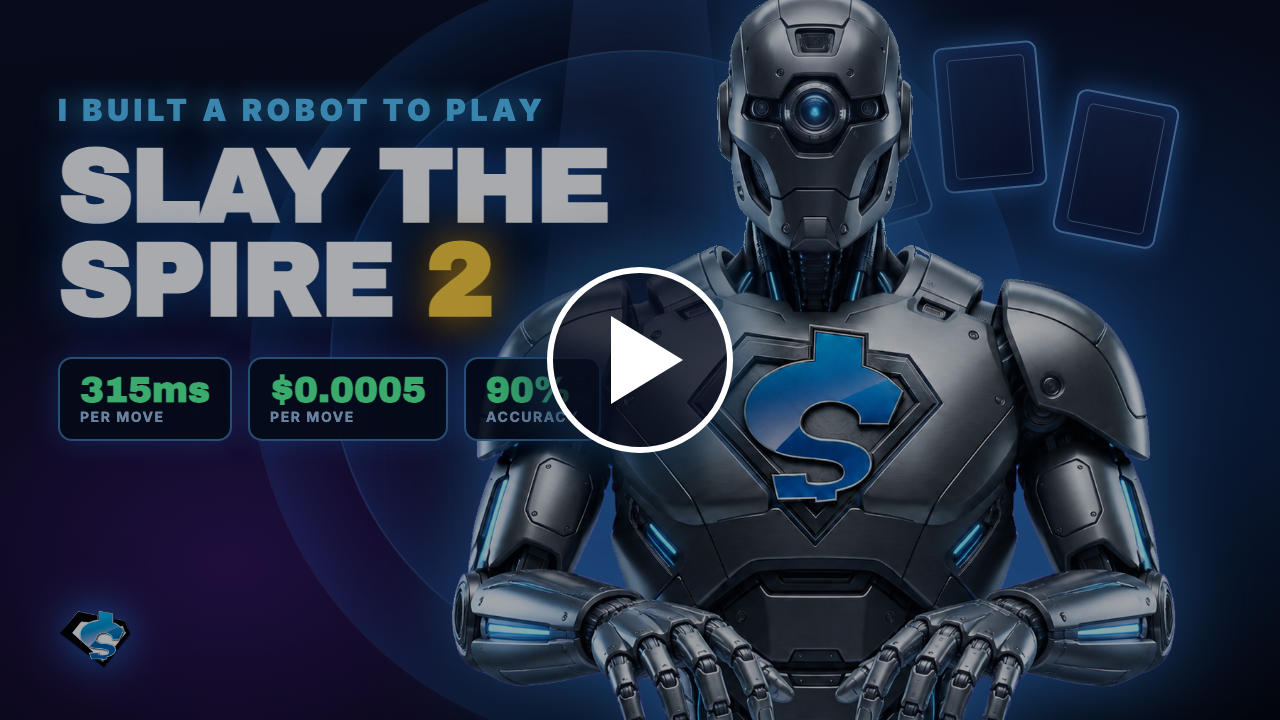
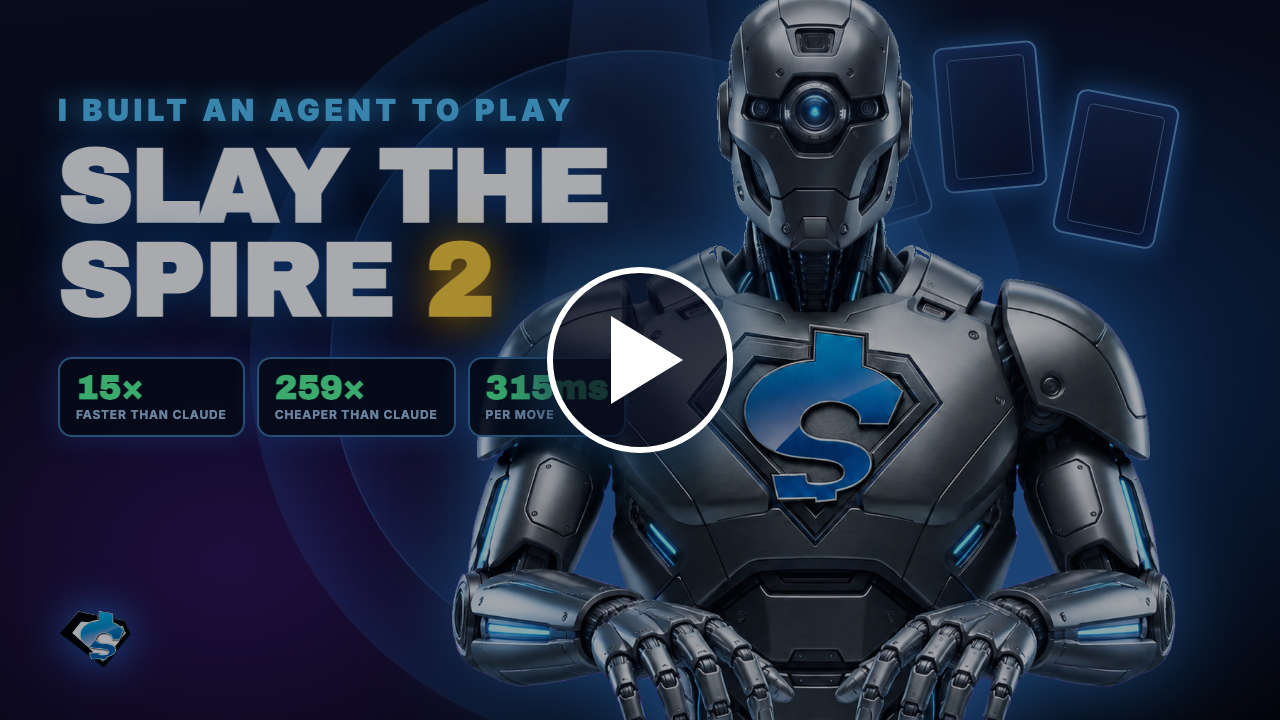
🎨 thumbnail: agent not robot, and lead with the verified Claude deltas

Changed region(s): [[0.0312, 0.4889, 0.4688, 0.6111], [0.1562, 0.1222, 0.4688, 0.1833]]

diff --git a/media/thumb.html b/media/thumb.html
@@ -32,18 +32,18 @@
     border:1px solid rgba(150,210,255,.45)}
   .robot{position:absolute;right:-30px;bottom:-56px;height:800px;
     filter:drop-shadow(0 0 46px rgba(60,150,255,.75)) drop-shadow(0 26px 40px rgba(0,0,0,.85))}
-  .copy{position:absolute;left:58px;top:92px;width:690px;z-index:5}
+  .copy{position:absolute;left:58px;top:92px;width:720px;z-index:5}
   .kicker{font-family:Inter,sans-serif;font-weight:900;font-size:30px;letter-spacing:.16em;
     color:#57c8ff;text-transform:uppercase;text-shadow:0 0 22px rgba(60,180,255,.85);margin-bottom:12px}
   h1{font-family:'Archivo Black',Inter,sans-serif;font-size:104px;line-height:.9;color:#fff;
     text-transform:uppercase;letter-spacing:-.022em;
     text-shadow:0 0 42px rgba(40,130,255,.62),0 8px 24px rgba(0,0,0,.92)}
   h1 .hl{color:#ffd23f;text-shadow:0 0 42px rgba(255,190,50,.85),0 8px 24px rgba(0,0,0,.9)}
-  .stats{display:flex;gap:16px;margin-top:30px}
+  .stats{display:flex;gap:12px;margin-top:30px}
   .stat{background:rgba(6,12,28,.90);border:2px solid rgba(90,180,255,.62);border-radius:14px;
-    padding:13px 20px;box-shadow:0 0 28px rgba(40,130,255,.32)}
-  .stat b{display:block;font-family:'Archivo Black',sans-serif;font-size:36px;color:#57ff9e;line-height:1}
-  .stat span{font-family:Inter,sans-serif;font-weight:700;font-size:14px;letter-spacing:.11em;
+    padding:12px 16px;box-shadow:0 0 28px rgba(40,130,255,.32)}
+  .stat b{display:block;font-family:'Archivo Black',sans-serif;font-size:34px;color:#57ff9e;line-height:1}
+  .stat span{font-family:Inter,sans-serif;font-weight:700;font-size:12px;letter-spacing:.07em;
     color:#9fc2e8;text-transform:uppercase}
   .logo{position:absolute;left:58px;bottom:44px;height:74px;
     filter:drop-shadow(0 0 22px rgba(40,140,255,.85));z-index:6}
@@ -66,12 +66,12 @@
   <div class="card" style="left:742px;top:238px;transform:rotate(-26deg);opacity:.75"></div>
   <img class="robot" src="robot.png" alt="">
   <div class="copy">
-    <div class="kicker">I built a robot to play</div>
+    <div class="kicker">I built an agent to play</div>
     <h1>SLAY THE<br>SPIRE <span class="hl">2</span></h1>
     <div class="stats">
+      <div class="stat"><b>15&times;</b><span>faster than Claude</span></div>
+      <div class="stat"><b>259&times;</b><span>cheaper than Claude</span></div>
       <div class="stat"><b>315ms</b><span>per move</span></div>
-      <div class="stat"><b>$0.0005</b><span>per move</span></div>
-      <div class="stat"><b>90%</b><span>accuracy</span></div>
     </div>
   </div>
   <img class="logo" src="logo.png" alt="">
